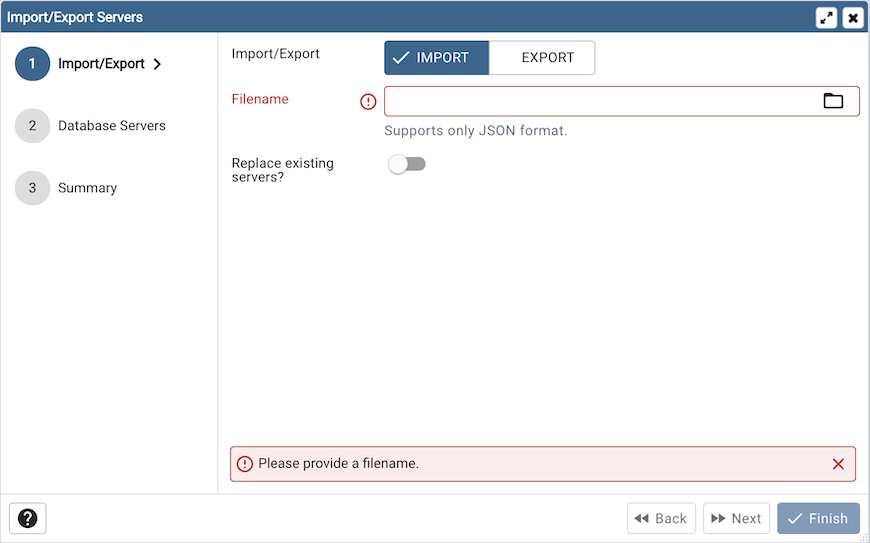
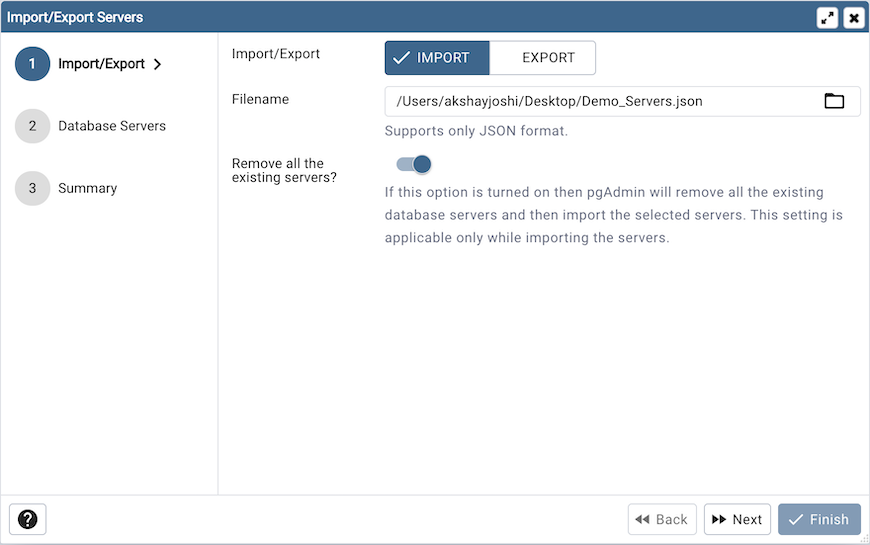
Fixed review comments for Import/Export Servers.
refs #4803

diff --git a/web/pgadmin/tools/import_export_servers/static/js/ImportExportServers.jsx b/web/pgadmin/tools/import_export_servers/static/js/ImportExportServers.jsx
@@ -15,7 +15,7 @@ import { Box, Paper} from '@material-ui/core';
 import { makeStyles } from '@material-ui/core/styles';
 import Wizard from '../../../../static/js/helpers/wizard/Wizard';
 import WizardStep from '../../../../static/js/helpers/wizard/WizardStep';
-import { FormFooterMessage, MESSAGE_TYPE } from '../../../../static/js/components/FormComponents';
+import { FormFooterMessage, MESSAGE_TYPE, FormNote } from '../../../../static/js/components/FormComponents';
 import SchemaView from '../../../../static/js/SchemaView';
 import Loader from 'sources/components/Loader';
 import ImportExportSelectionSchema from './import_export_selection.ui';
@@ -46,6 +46,9 @@ const useStyles = makeStyles(() =>
       flexGrow: 1,
       minHeight: 0,
       overflow: 'auto',
+    },
+    noteContainer: {
+      marginTop: '5px',
     }
   }),
 );
@@ -62,27 +65,48 @@ export default function ImportExportServers() {
   const [selectedServers, setSelectedServers] = React.useState([]);
   const [summaryData, setSummaryData] = React.useState([]);
   const [summaryText, setSummaryText] = React.useState('');
+  const [noteText, setNoteText] = React.useState('');
   const api = getApiInstance();
 
   const onSave = () => {
-    if (selectionFormData.imp_exp == 'i') {
-      Notify.confirm(
-        gettext('Browser tree refresh required'),
-        gettext('A browser tree refresh is required. Do you wish to refresh the tree?'),
-        function() {
-          pgAdmin.Browser.tree.destroy({
-            success: function() {
-              pgAdmin.Browser.initializeBrowserTree(pgAdmin.Browser);
-              return true;
-            },
-          });
-        },
-        function() {
-          return true;
-        },
-        gettext('Refresh'),
-        gettext('Later')
-      );
+    let post_data = {'filename': selectionFormData.filename},
+      save_url = url_for('import_export_servers.save');
+
+    if (selectionFormData.imp_exp == 'e') {
+      post_data['type'] = 'export';
+      post_data['selected_sever_ids'] = selectedServers;
+      api.post(save_url, post_data)
+        .then(() => {
+          Notify.alert(gettext('Export Servers'), gettext('The selected servers were exported successfully.'));
+        })
+        .catch((err) => {
+          Notify.alert(err.response.data.errormsg);
+        });
+    } else if (selectionFormData.imp_exp == 'i') {
+      // Remove the random number added to create unique tree item,
+      let selected_sever_ids = [];
+      selectedServers.forEach((id) => {
+        selected_sever_ids.push(id.split('_')[0]);
+      });
+
+      post_data['type'] = 'import';
+      post_data['selected_sever_ids'] = selected_sever_ids;
+      post_data['replace_servers'] = selectionFormData.replace_servers;
+
+      api.post(save_url, post_data)
+        .then(() => {
+          pgAdmin.Browser.tree.destroy();
+
+          let msg = gettext('The selected servers were imported successfully.');
+          if (selectionFormData.replace_servers) {
+            msg = gettext('The existing server groups and servers were removed, and the selected servers were imported successfully.');
+          }
+
+          Notify.alert(gettext('Import Servers'), msg);
+        })
+        .catch((err) => {
+          Notify.alert(err.response.data.errormsg);
+        });
     }
  
     Alertify.importExportWizardDialog().close();
@@ -109,45 +133,30 @@ export default function ImportExportServers() {
   const wizardStepChange= (data) => {
     switch (data.currentStep) {
     case 2: {
-      let post_data = {'filename': selectionFormData.filename},
-        save_url = url_for('import_export_servers.save');
-      if (selectionFormData.imp_exp == 'e') {
-        setLoaderText('Exporting Server Groups/Servers ...');
-        setSummaryText('Exported following Server Groups/Servers:');
-
-        post_data['type'] = 'export';
-        post_data['selected_sever_ids'] = selectedServers;
-        api.post(save_url, post_data)
-          .then(res => {
-            setLoaderText('');
-            setSummaryData(res.data.data);
-          })
-          .catch((err) => {
-            setLoaderText('');
-            setErrMsg(err.response.data.errormsg);
+      let sumData = [],
+        serverSerialNumber = 0;
+      serverData.forEach((server_group) => {
+        server_group.children.forEach((server) =>{
+          selectedServers.forEach((id) => {
+            if (server.value == id) {
+              serverSerialNumber = serverSerialNumber + 1;
+              sumData.push({'srno': serverSerialNumber,
+                'server_group':server_group.label, 'server': server.label});
+            }
           });
-      } else if (selectionFormData.imp_exp == 'i') {
-        setLoaderText('Importing Server Groups/Servers ...');
-        setSummaryText('Imported following Server Groups/Servers:');
-        // Remove the random number added to create unique tree item,
-        let selected_sever_ids = [];
-        selectedServers.forEach((id) => {
-          selected_sever_ids.push(id.split('_')[0]);
         });
-
-        post_data['type'] = 'import';
-        post_data['selected_sever_ids'] = selected_sever_ids;
-        post_data['replace_servers'] = selectionFormData.replace_servers;
-
-        api.post(save_url, post_data)
-          .then(res => {
-            setLoaderText('');
-            setSummaryData(res.data.data);
-          })
-          .catch((err) => {
-            setLoaderText('');
-            setErrMsg(err.response.data.errormsg);
-          });
+      });
+      setSummaryData(sumData);
+      if (selectionFormData.imp_exp == 'e') {
+        setSummaryText('The following servers will be exported. Click the Finish button to complete the export process.');
+        setNoteText('');
+      } else if (selectionFormData.imp_exp == 'i') {
+        setSummaryText('The following servers will be imported. Click the Finish button to complete the import process.');
+        if (selectionFormData.replace_servers) {
+          setNoteText('All existing server groups and servers will be removed before the servers above are imported. On a successful import process, the browser tree will be refreshed.');
+        } else {
+          setNoteText('On a successful import process, the browser tree will be refreshed.');
+        }
       }
       break;
     }
@@ -252,6 +261,8 @@ export default function ImportExportServers() {
               </tbody>
             </table>
           </Paper>
+          {selectionFormData.imp_exp == 'i' && 
+          <FormNote className={classes.noteContainer} text={gettext(noteText)}/> }
         </WizardStep>
       </Wizard>
     </Box>

diff --git a/web/pgadmin/tools/import_export_servers/static/js/import_export_selection.ui.js b/web/pgadmin/tools/import_export_servers/static/js/import_export_selection.ui.js
@@ -65,8 +65,9 @@ export default class ImportExportSelectionSchema extends BaseUISchema {
       helpMessage: gettext('Supports only JSON format.')
     }, {
       id: 'replace_servers',
-      label: gettext('Replace existing servers?'),
+      label: gettext('Remove all the existing servers?'),
       type: 'switch', deps: ['imp_exp'],
+      helpMessage: gettext('If this option is turned on then pgAdmin will remove all the existing database servers and then import the selected servers. This setting is applicable only while importing the servers.'),
       depChange: (state)=> {
         if (state.imp_exp == 'e') {
           state.replace_servers = false;

diff --git a/web/pgadmin/misc/file_manager/templates/file_manager/index.html b/web/pgadmin/misc/file_manager/templates/file_manager/index.html
@@ -58,7 +58,7 @@
     </div>
     <div class="fileinfo flex-grow-1 d-flex">
         <span class="activity">
-        <img src="{{ url_for('static', filename='js/generated/img/load-root.gif') }}"
+        <img src="{{ url_for('static', filename='img/loading.gif') }}"
             alt="{{ _('Loading...') }}">
         </span>
         <div class="file_listing"></div>

diff --git a/web/pgadmin/misc/file_manager/static/js/utility.js b/web/pgadmin/misc/file_manager/static/js/utility.js
@@ -712,7 +712,7 @@ define([
 
     var loading_icon_url = url_for(
       'static', {
-        'filename': 'js/generated/load-root.gif',
+        'filename': 'img/loading.gif',
       }
     );
 

diff --git a/web/pgadmin/utils/__init__.py b/web/pgadmin/utils/__init__.py
@@ -397,7 +397,7 @@ def dump_database_servers(output_file, selected_servers,
     """
     user = _does_user_exist(dump_user, from_setup)
     if user is None:
-        return False, USER_NOT_FOUND % dump_user, []
+        return False, USER_NOT_FOUND % dump_user
 
     user_id = user.id
     # Dict to collect the output
@@ -408,7 +408,6 @@ def dump_database_servers(output_file, selected_servers,
     # Dump servers
     servers = Server.query.filter_by(user_id=user_id).all()
     server_dict = {}
-    dump_servers = []
     for server in servers:
         if selected_servers is None or str(server.id) in selected_servers:
             # Get the group name
@@ -446,9 +445,6 @@ def dump_database_servers(output_file, selected_servers,
                       server.tunnel_authentication)
 
             servers_dumped = servers_dumped + 1
-            dump_servers.append({'srno': servers_dumped,
-                                 'server_group': group_name,
-                                 'server': server.name})
 
             server_dict[servers_dumped] = attr_dict
 
@@ -473,13 +469,14 @@ def dump_database_servers(output_file, selected_servers,
           (servers_dumped, output_file)
     print(msg)
 
-    return True, msg, dump_servers
+    return True, msg
 
 
-def _validate_servers_data(data, is_admin):
+def validate_json_data(data, is_admin):
     """
     Used internally by load_servers to validate servers data.
     :param data: servers data
+    :param is_admin:
     :return: error message if any
     """
     skip_servers = []
@@ -503,6 +500,11 @@ def _validate_servers_data(data, is_admin):
                         (attrib, server))
             return None
 
+        def check_is_integer(value):
+            if not isinstance(value, int):
+                return "Port must be integer for server '%s'" % server
+            return None
+
         for attrib in ("Group", "Name"):
             errmsg = check_attrib(attrib)
             if errmsg:
@@ -515,6 +517,10 @@ def _validate_servers_data(data, is_admin):
                 errmsg = check_attrib(attrib)
                 if errmsg:
                     return errmsg
+                if attrib == 'Port':
+                    errmsg = check_is_integer(obj[attrib])
+                    if errmsg:
+                        return errmsg
 
         for attrib in ("SSLMode", "MaintenanceDB"):
             errmsg = check_attrib(attrib)
@@ -549,7 +555,7 @@ def load_database_servers(input_file, selected_servers,
 
     user = _does_user_exist(load_user, from_setup)
     if user is None:
-        return False, USER_NOT_FOUND % load_user, []
+        return False, USER_NOT_FOUND % load_user
 
     user_id = user.id
     # Counters
@@ -560,12 +566,11 @@ def load_database_servers(input_file, selected_servers,
     groups = ServerGroup.query.filter_by(user_id=user_id)
 
     # Validate server data
-    error_msg = _validate_servers_data(data, user.has_role("Administrator"))
+    error_msg = validate_json_data(data, user.has_role("Administrator"))
     if error_msg is not None and from_setup:
         print(ADD_SERVERS_MSG % (groups_added, servers_added))
         return _handle_error(error_msg, from_setup)
 
-    load_servers = []
     for server in data["Servers"]:
         if selected_servers is None or str(server) in selected_servers:
             obj = data["Servers"][server]
@@ -662,14 +667,11 @@ def load_database_servers(input_file, selected_servers,
                                      (new_server.name, e), from_setup)
 
             servers_added = servers_added + 1
-            load_servers.append({'srno': servers_added,
-                                 'server_group': obj["Group"],
-                                 'server': obj["Name"]})
 
     msg = ADD_SERVERS_MSG % (groups_added, servers_added)
     print(msg)
 
-    return True, msg, load_servers
+    return True, msg
 
 
 def clear_database_servers(load_user=current_user, from_setup=False):
@@ -733,7 +735,7 @@ def _handle_error(error_msg, from_setup):
         print(error_msg)
         sys.exit(1)
 
-    return False, error_msg, []
+    return False, error_msg
 
 
 # Shortcut configuration for Accesskey

diff --git a/web/pgadmin/tools/import_export_servers/__init__.py b/web/pgadmin/tools/import_export_servers/__init__.py
@@ -23,7 +23,7 @@ from pgadmin.utils.constants import MIMETYPE_APP_JS
 from pgadmin.utils.ajax import make_json_response, internal_server_error
 from pgadmin.model import ServerGroup, Server
 from pgadmin.utils import clear_database_servers, dump_database_servers,\
-    load_database_servers
+    load_database_servers, validate_json_data
 
 MODULE_NAME = 'import_export_servers'
 
@@ -131,6 +131,12 @@ def load_servers():
         try:
             with open(filename, 'r') as j:
                 data = json.loads(j.read())
+
+                # Validate the json file and data
+                errmsg = validate_json_data(data, False)
+                if errmsg is not None:
+                    return internal_server_error(errmsg)
+
                 if 'Servers' in data:
                     for server in data["Servers"]:
                         obj = data["Servers"][server]
@@ -184,18 +190,17 @@ def save():
 
     status = False
     errmsg = None
-    summary_data = []
     if data['type'] == 'export':
-        status, errmsg, summary_data = \
+        status, errmsg = \
             dump_database_servers(data['filename'], data['selected_sever_ids'])
     elif data['type'] == 'import':
         # Clear all the existing servers
         if 'replace_servers' in data and data['replace_servers']:
             clear_database_servers()
-        status, errmsg, summary_data = \
+        status, errmsg = \
             load_database_servers(data['filename'], data['selected_sever_ids'])
 
     if not status:
         return internal_server_error(errmsg)
 
-    return make_json_response(success=1, data=summary_data)
+    return make_json_response(success=1)

diff --git a/docs/en_US/import_export_servers.rst b/docs/en_US/import_export_servers.rst
@@ -24,8 +24,9 @@ menu bar to click on the *Import/Export Servers* option.
 * Use the *Filename* field to select the JSON file to import servers or create the
   new file in case of Export where the servers to be exported in the JSON format.
 
-* Use the *Replace existing servers?* field to specify whether to replace the
-  existing servers or not. This field is applicable only in case of Import Servers.
+* Use the *Remove all the existing servers?* field to specify whether to remove all the
+  existing servers or not before importing the new selected servers.
+  This field is applicable only in case of Import Servers.
 
 Click the *Next* button to continue, or the *X* button to close the wizard.
 
@@ -41,17 +42,10 @@ Click the *Next* button to continue, or the *X* button to close the wizard.
     :alt: Import/Export Servers step three page
     :align: center
 
-Check the summary of the imported/exported servers on the Summary page.
+Check the summary of the servers that are going to be imported/exported on the
+Summary page.
 
 Click the *Finish* button to close the wizard.
-
-.. image:: images/import_export_servers_refresh_tree.png
-    :alt: Import/Export Servers Tree Refresh
-    :align: center
-
-In case of importing the server above confirmation box will be popped up to
-confirm whether to refresh the browser tree or later.
-
 
 Using 'setup.py' command line script
 ####################################
